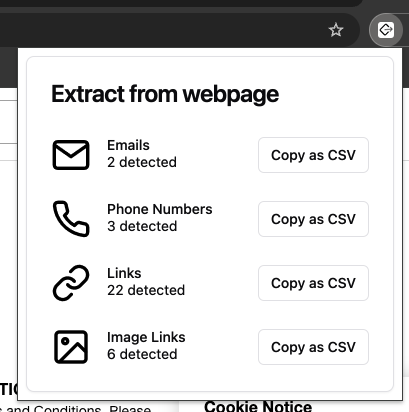
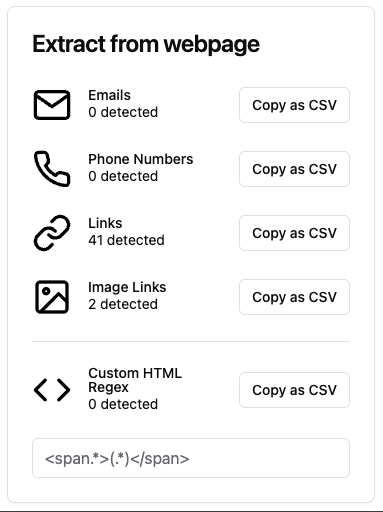
docs: update readme, version and screenshot

diff --git a/README.md b/README.md
@@ -11,14 +11,15 @@ Compatible with Google Chrome (Manifest V3).
 
 - **Email Extraction**: Finds and lists all email addresses on the current webpage.
 - **Phone Number Extraction**: Identifies and displays all phone numbers on the page.
-- **Link Extraction**: Captures all hyperlinks on the page, including their text labels (if any).
-- **Image Extraction**: Gathers image sources (URLs) and alt-texts.
+- **Link Extraction**: Captures all hyperlinks on the page.
+- **Image Extraction**: Gathers image sources (URLs).
+- **Custom Regex Extraction**: Enter any regex pattern to search the page’s raw HTML and automatically see matches as you type.
 
 ---
 
 ## Installation
 
-[Download the latest version](https://github.com/ArthurVerrez/webpage-string-extractor-browser-extension/releases/download/v0.0.1/webpage-string-extractor-v001.zip).
+[Download the latest version (v0.0.2)](https://github.com/ArthurVerrez/webpage-string-extractor-browser-extension/releases/download/v0.0.2/webpage-string-extractor-v0.0.2.zip).
 
 1. **Unzip** the downloaded file to a folder on your computer.
 2. **Open Chrome** and go to `chrome://extensions/`.
@@ -29,7 +30,7 @@ Compatible with Google Chrome (Manifest V3).
 Notes:
 
 - The first time you load the extension, you might need to refresh the page you want to extract data from if it was opened before installing the extension.
-- If you move the extension folder, you will need to reload it in Chrome, so make sure to keep it in a stable location.
+- If you move the extension folder, you will need to reload it in Chrome, so keep it in a stable location.
 - The above process is for Chrome. Other Chromium-based browsers (Edge, Brave, etc.) have similar steps.
 
 ---
@@ -37,9 +38,10 @@ Notes:
 ## Usage
 
 1. **Open the extension** from your browser toolbar after installation.
-2. **Select the type of data** you want to extract (e.g., emails, phone number, links, images).
-3. **Click “Extract”** to parse the current webpage and display the matching results.
-4. **Export or copy** the extracted data as needed.
+2. **Select the type of data** you want to extract (e.g., emails, phone numbers, links, images).
+3. **Enter a custom regex** in the “Custom Regex” field (optional). The extension will automatically parse the page’s HTML to find all matching text.
+4. **Click “Extract”** (or simply type in your regex) to parse the current webpage and display the matching results.
+5. **Export or copy** the extracted data as needed.
 
 ---
 
